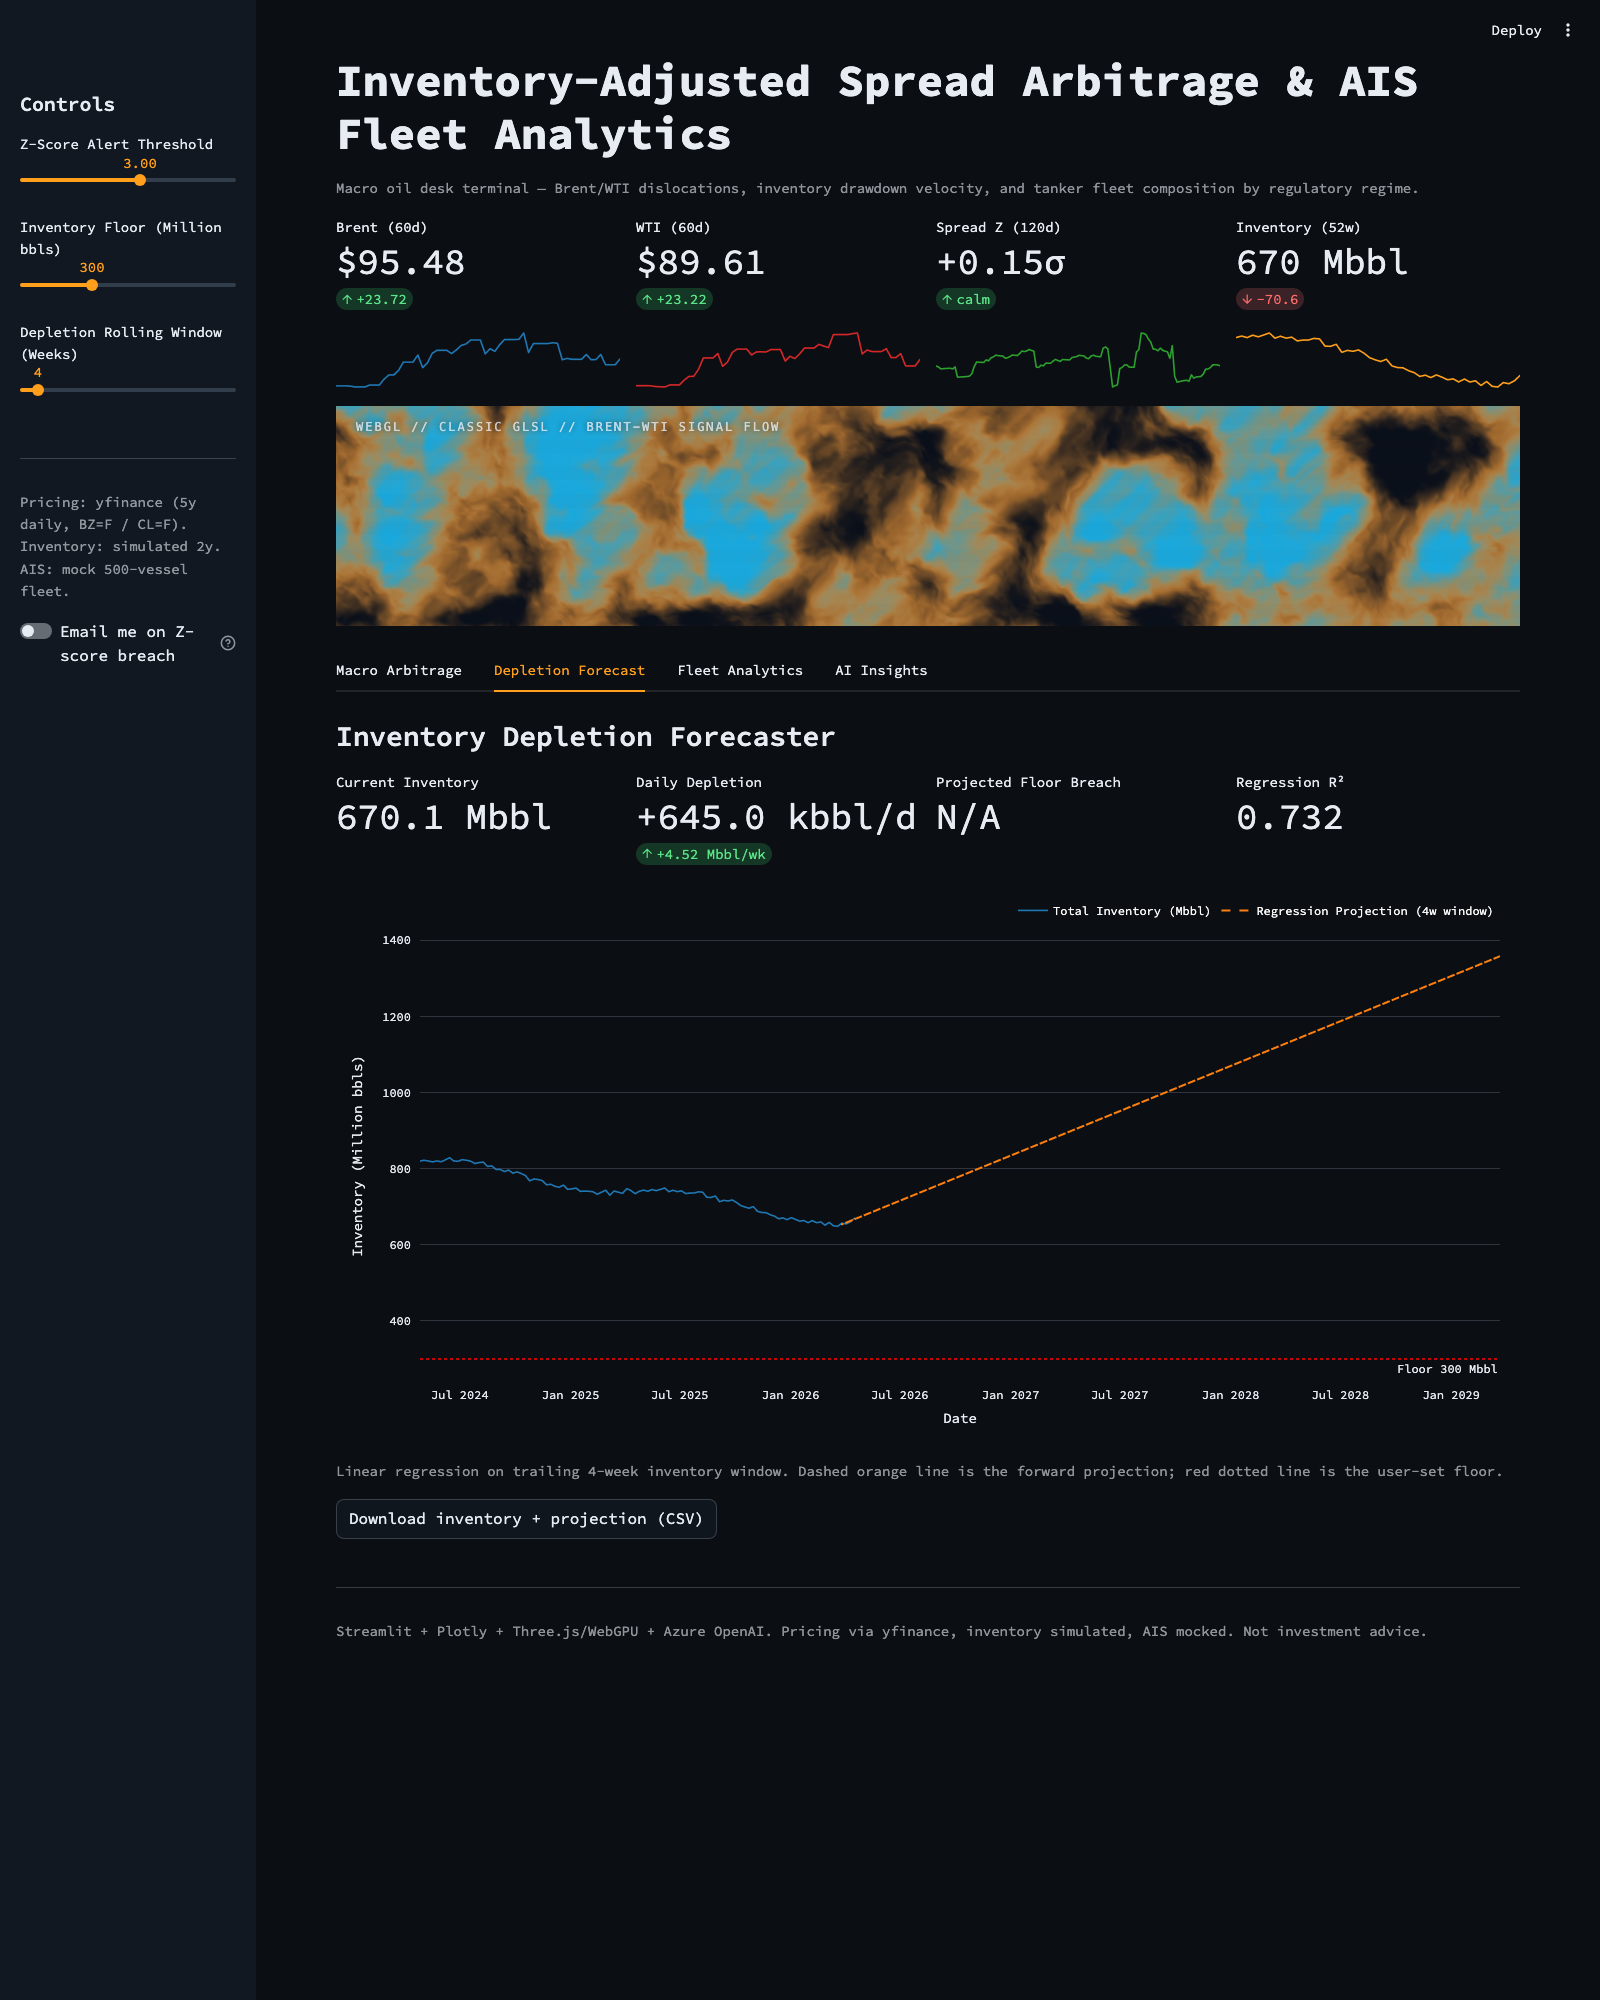
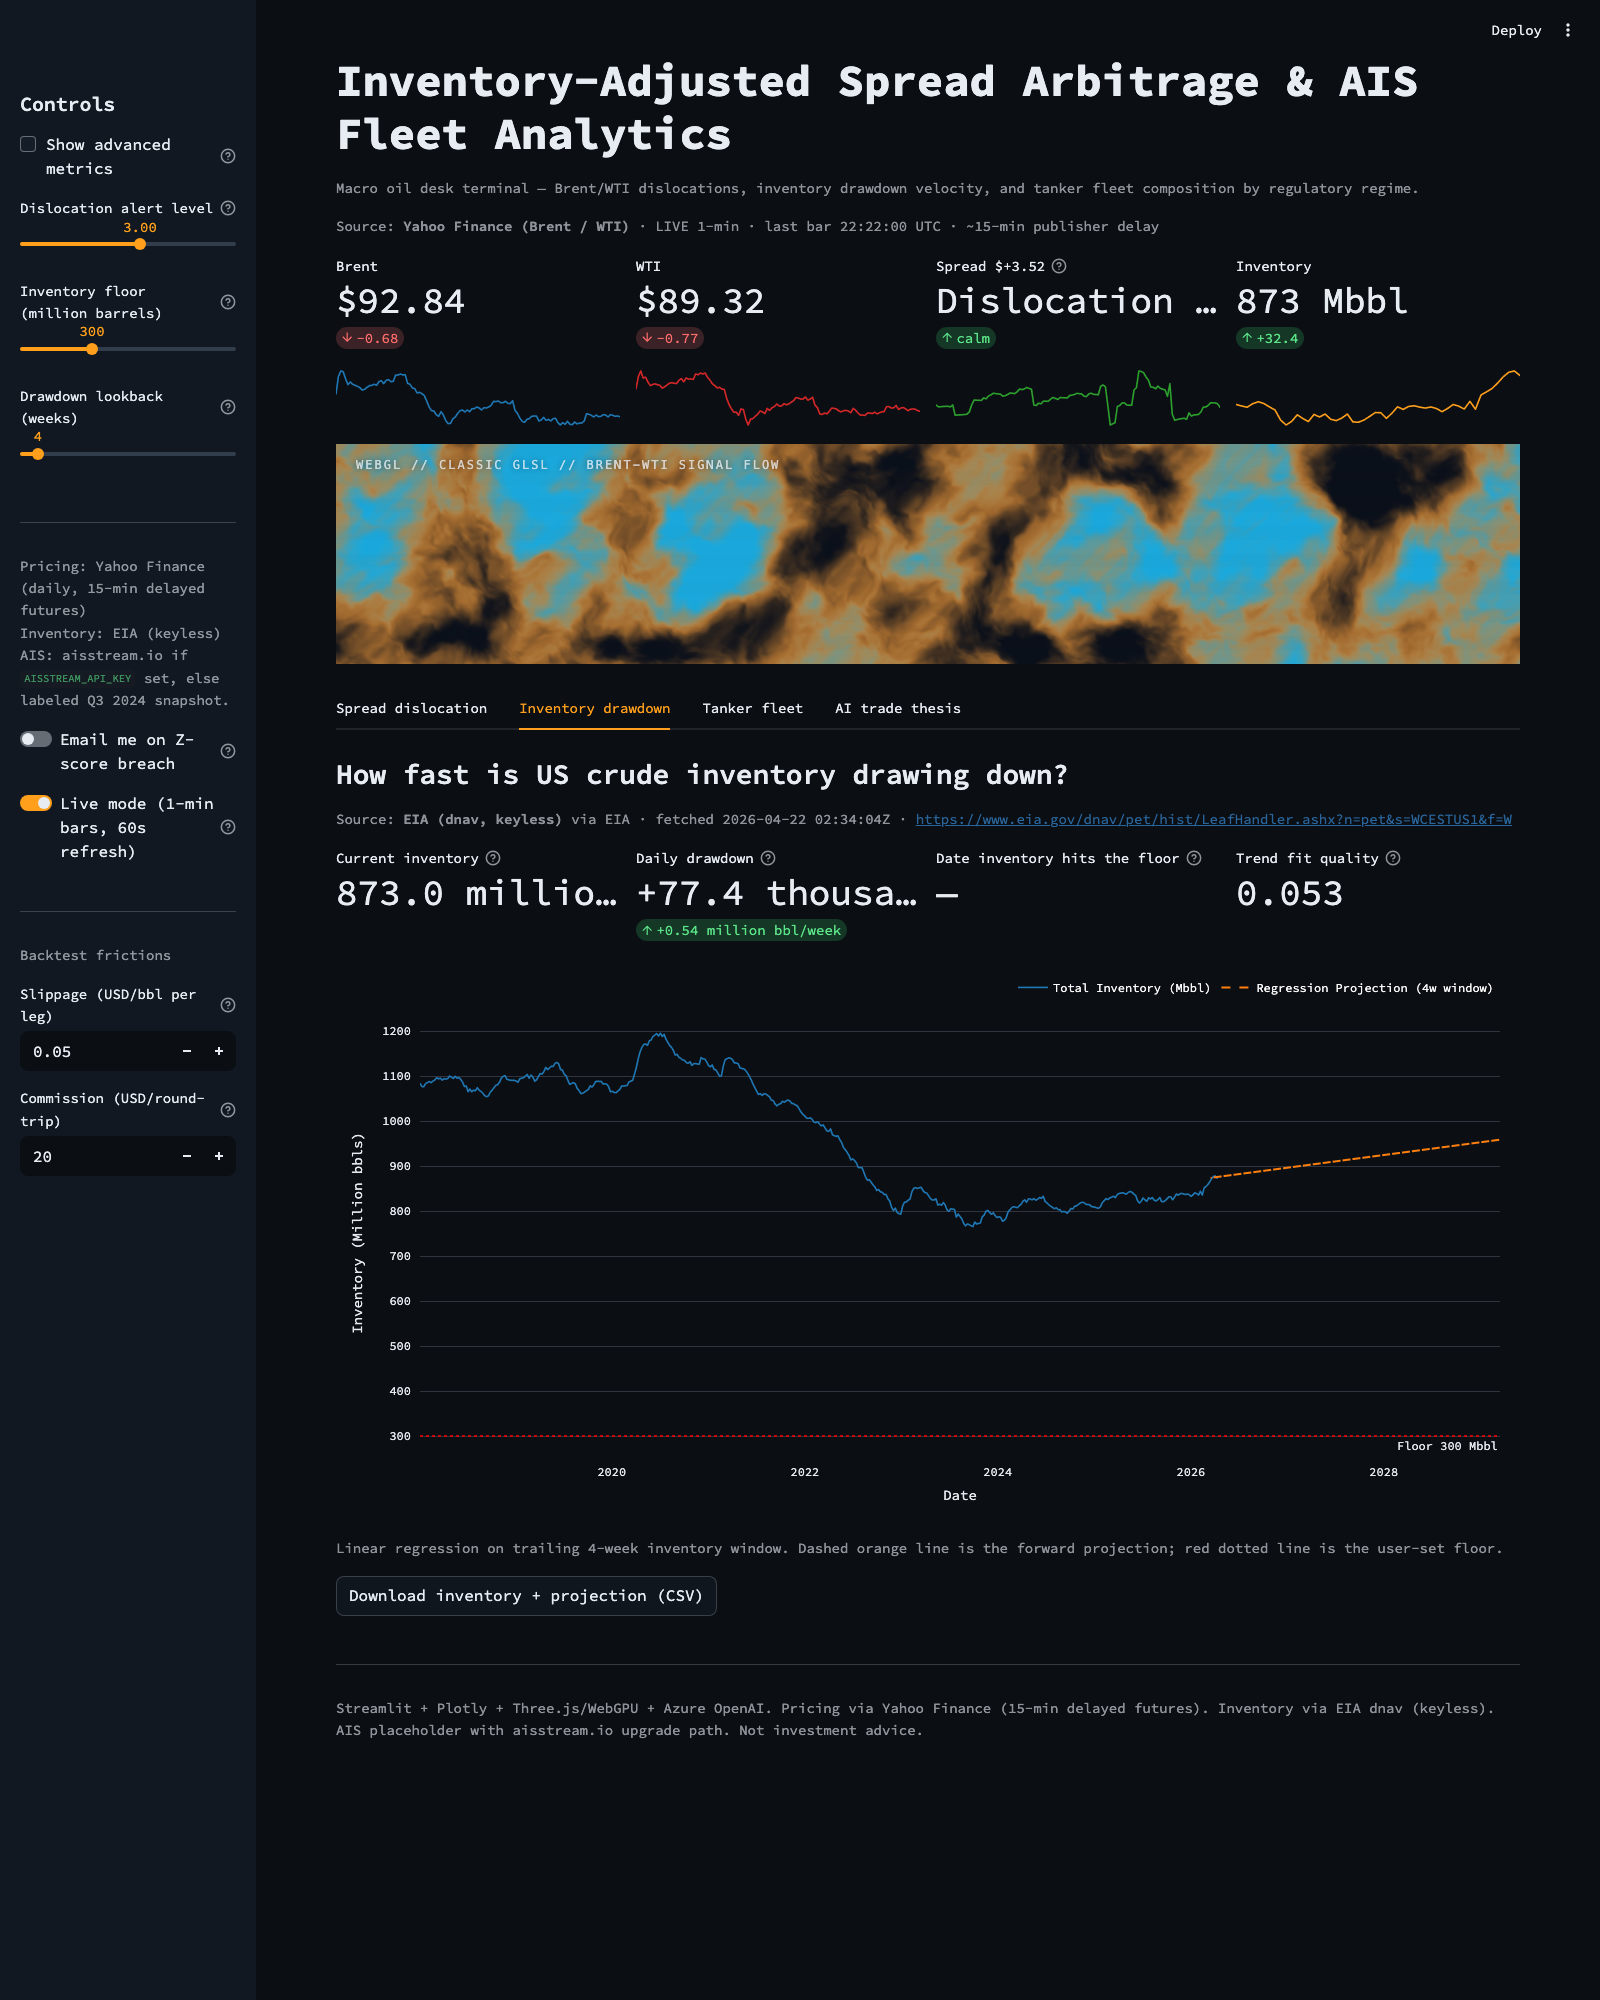
fix(quant): pandas 3.x DataFrame.fillna(method=) removed → use .ffill()
CI on Python 3.12 (pandas 3.x-track) fails with
  TypeError: NDFrame.fillna() got an unexpected keyword argument 'method'
on quant.regime_breakdown.

Replace the deprecated form with the direct .ffill() method.

Also:
* app.py: subheader "Brent vs WTI — price and spread dislocation"
  (Z-score suffix only when advanced view is on) — stops the last
  stats-jargon leftover in Tab 1.
* .agent-scripts/capture_screens.py updated tab locators to the new
  plain-language tab names so future screenshot runs don't time out.
* docs/screenshots refreshed against the new labels.

diff --git a/.agent-scripts/capture_screens.py b/.agent-scripts/capture_screens.py
@@ -18,10 +18,10 @@ OUT_DIR.mkdir(parents=True, exist_ok=True)
 def main() -> int:
     url = sys.argv[1] if len(sys.argv) > 1 else "http://127.0.0.1:8611"
     tabs = [
-        ("01_macro_arbitrage", "Macro Arbitrage"),
-        ("02_depletion_forecast", "Depletion Forecast"),
-        ("03_fleet_analytics", "Fleet Analytics"),
-        ("04_ai_insights", "AI Insights"),
+        ("01_macro_arbitrage", "Spread dislocation"),
+        ("02_depletion_forecast", "Inventory drawdown"),
+        ("03_fleet_analytics", "Tanker fleet"),
+        ("04_ai_insights", "AI trade thesis"),
     ]
 
     with sync_playwright() as p:

diff --git a/app.py b/app.py
@@ -421,7 +421,10 @@ tab_arb, tab_depl, tab_fleet, tab_ai = st.tabs(
 
 # ---- Tab 1 --------------------------------------------------------------
 with tab_arb:
-    st.subheader("Brent vs WTI — Price + Spread Z-Score")
+    st.subheader(
+        "Brent vs WTI — price and spread dislocation"
+        + (" (Z-score)" if show_advanced else "")
+    )
     st.caption(
         f"Source: **{pricing_res.source}** (daily, ~15-min delayed futures) · "
         f"fetched {pricing_res.fetched_at.strftime('%Y-%m-%d %H:%M:%SZ')}"

diff --git a/quantitative_models.py b/quantitative_models.py
@@ -468,7 +468,7 @@ def regime_breakdown(
     median_vol = float(rolling_vol.median())
 
     t = trades.copy()
-    entry_vol = rolling_vol.reindex(t["entry_date"]).fillna(method="ffill").values
+    entry_vol = rolling_vol.reindex(t["entry_date"]).ffill().values
     t["regime"] = np.where(entry_vol > median_vol, "high_vol", "low_vol")
 
     grouped = (
